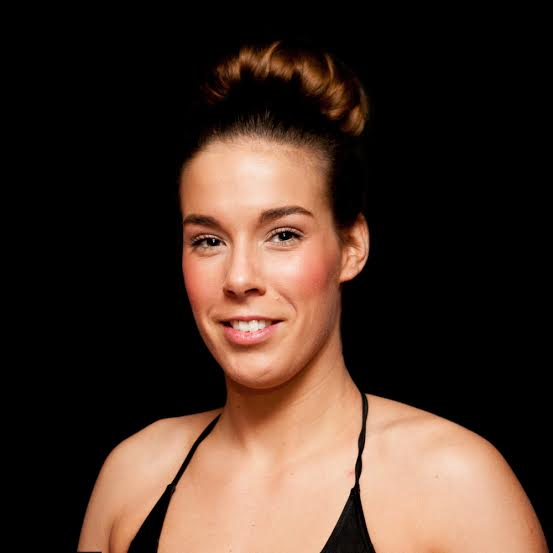
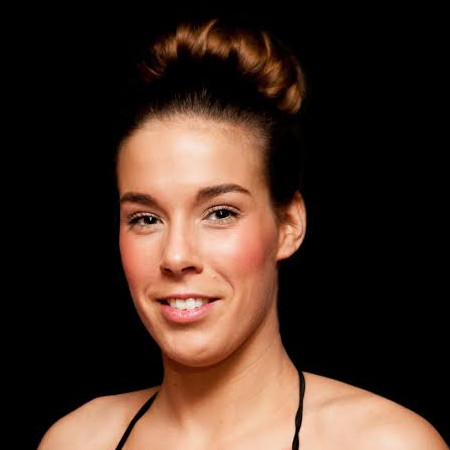
Instructors page finished. Waiting for review.

diff --git a/css/index.css b/css/index.css
@@ -43,10 +43,6 @@ ul.navbar-right a:hover {
 	border:solid 1px #1F2021;
 }
 
-.caption h3 {
-	padding-bottom:10px;
-	color:#F40D8E;
-}
 
 .caption p {
 	color:white;

diff --git a/instructors/index.php b/instructors/index.php
@@ -28,26 +28,78 @@
 		
 			<div class="row margined-row">
 				<div class="col-md-12">
-					<img class="img-responsive" src="http://lorempixel.com/1200/200/"/>
+					<img class="img-responsive" src="../images/instructors_banner.png" alt="Instructors Banner"/>
+				</div>
+			</div>
+			
+			<div class="row margined-row">
+				<div class="col-md-12">
+					<i>
+						<h3 class="center pink">
+							Meet the true force of Bodybarre; a team of the most passionate and inspiring teachers in the North West.
+						</h3>
+					</i>
+					</b>
 				</div>
 			</div>
 			
 			<div class="row margined-row">
 				<div class="col-xs-12 col-sm-4">
 					<div class="thumbnail">
-						<img src="http://lorempixel.com/600/500/" alt="...">
+						<img class="img-responsive" src="../images/kaz.jpg" alt="Karen Chaundy Photo">
 						<div class="caption">
-							<h3 class="center">Karen Chaundy</h3>
-							<p>Here is some text.</p>
+							<h3 class="pink center">Karen Chaundy</h3>
+							<i><h4 class="center gold">The strong one!</h4></i>
+							<p>
+								Karen is the founder and inspiration behind Bodybarre. Karen has immersed herself in the 
+								world of fitness and dance all her life starting with gymnastics at 2 years old. Karen continued 
+								with gymnastics; training in Bulgaria and competing at regional squad level before becoming a 
+								club coach and chief choreographer. A career in professional dance followed and included the highlight of performing as an aerialist 
+								and ground based dancer within the Millennium Dome Central Arena Show in London.
+							</p>
+							<p>
+								Karen has also performed at the Bollywood Film Awards Ceremony, a burlesque dancer on the 
+								ITV's drama series ‘The Royal’, a Pole Dancer on Coronation Street and on Shameless of which 
+								she was appointed to perform, teach and choreograph the shows leading actress.
+								Karen continues to choreograph and perform aerial and ground based Burlesque and Pole 
+								Dance shows for TV, Stage and corporate and celebratory events.
+							</p>
+							<p>
+								Karen has continued to build her knowledge within the fitness industry and formalized this 
+								with qualifications with YMCA gym instructor level 2. She has been selected and qualified to 
+								teach New York City Ballet Workout as well as Nike Rockstar Workouts; involvement in these 
+								different dance styles has inspired her and continue to feed her creativity. Keeping her fitness 
+								knowledge current, Karen is one of the UK's first AntiGravity&reg; Aerial Yoga and AntiGravity&reg; 
+								Aerial Pilates qualified Instructors leading AntiGravity&reg; Fitness classes at Bodybarre.
+								Karen is also a Master Trainer for the XPert Pole Instructor Training programs of which she 
+								conducts across Europe.
+							</p>
+							<p>
+								Her Pole Dancing performance career reached its pinnacle as she successfully represented the 
+								UK at the World Pole Dance Championships. Known for her strong and unique pole dance style 
+								she has captivated audiences worldwide and delivers pole masterclasses across the UK and the 
+								world.
+							</p>
 						</div>
 					</div>
 				</div>
 				<div class="col-xs-12 col-sm-4">
 					<div class="thumbnail">
-						<img src="http://lorempixel.com/600/500/" alt="...">
+						<img class="img-responsive" src="../images/penny.jpg" alt="Penny Howarth Photo">
 						<div class="caption">
-							<h3 class="center">Penny Howarth</h3>
-							<p>Here is some text.</p>
+							<h3 class="pink center">Penny Howarth</h3>
+							<i><h4 class="center gold">The bendy one!</h4></i>
+							<p>
+								Penny competes at a professional level in pole dance competitions and holds many pole titles.
+								Penny has worked in the pole dance industry since 2007 but has been dancing since the age of 
+								4! Penny’s training includes many dance disciplines from ballet to tap. Penny’s favourite 
+								pole moves are Jade, Star Gazer, Embrace and Flying Ballerina.
+							</p>
+							<p>
+								Penny’s aim is for every student to achieve something every lesson, no matter how big or 
+								small. Penny feels students should be able to forget any stresses of everyday life and enjoy the 
+								class, leaving the studio feeling empowered, self confident and happy.
+							</p>
 						</div>
 					</div>
 				</div>
@@ -55,8 +107,24 @@
 					<div class="thumbnail">
 						<img class="img-responsive" src="../images/cassie.jpg" alt="Cassie Bee Photo">
 						<div class="caption">
-							<h3 class="center">Cassie Bee</h3>
-							<p>Here is some text.</p>
+							<h3 class="pink center">Cassie Bee</h3>
+							<i><h4 class="center gold">The sexy one!</h4></i>
+							<p>
+								Cassie brings a touch of super sassy sexy pole fun to Bodybarre, and teaches regular Lap Dance Workshops which always go down a storm!
+							</p>
+							<p>
+								Cassie loves to share her fitness knowledge, and makes each class fun whilst delivering safe,
+								effective sessions with an encouraging nature. She finds it hugely rewarding to watch her 
+								students grow in confidence as their fitness goals become achievable.
+							</p>
+							<p>
+								Cassie understands the importance of being a student herself, and she regularly attends 
+								instructor fitness courses, keeping her fitness knowledge current to ensure she delivers the 
+								best classes for her students.
+							</p>
+							<p>
+								Passionate about fitness, Cassie enjoys working with clients who display the same level of enjoyment and love for fitness that she does.
+							</p>
 						</div>
 					</div>
 				</div>
